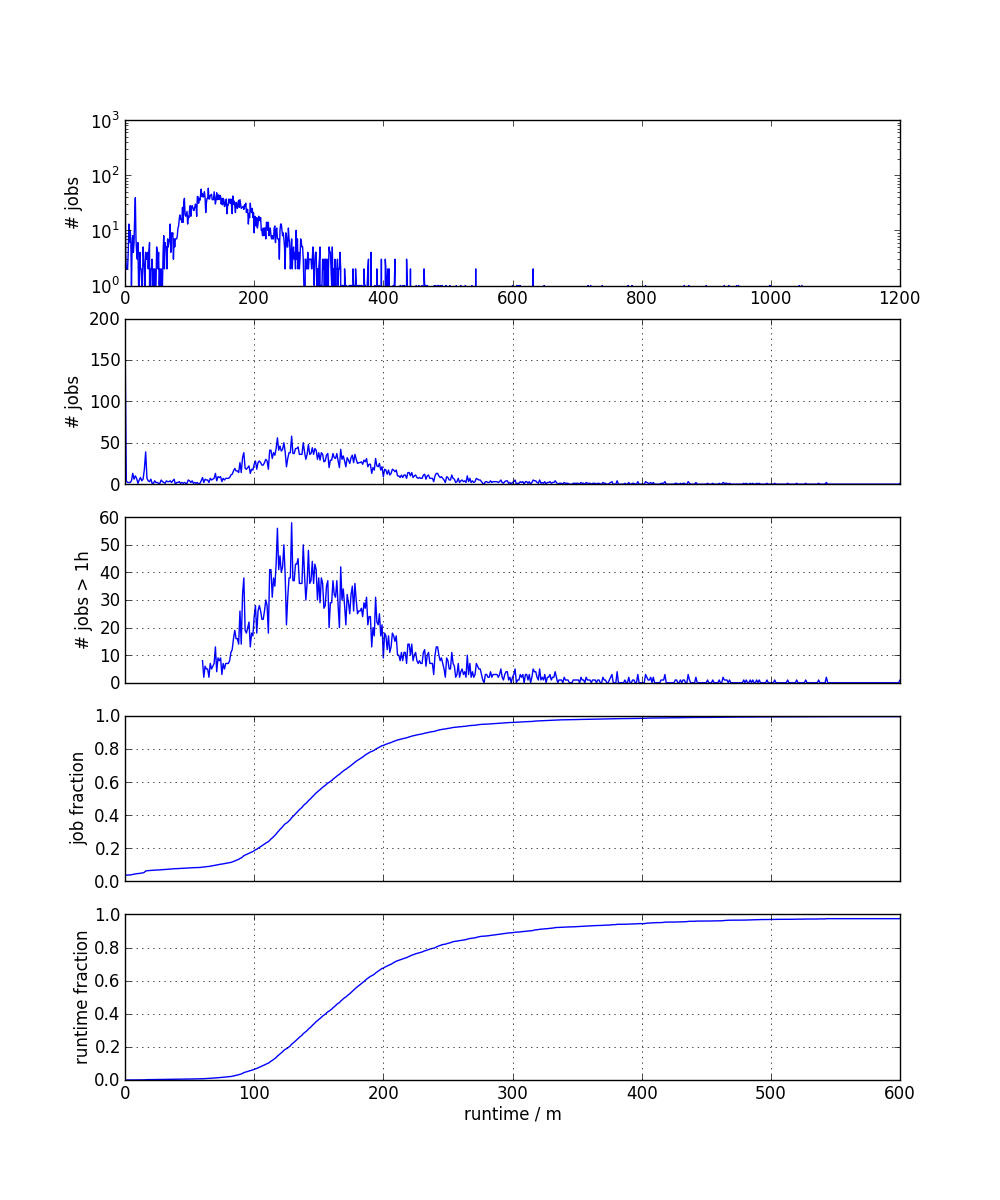
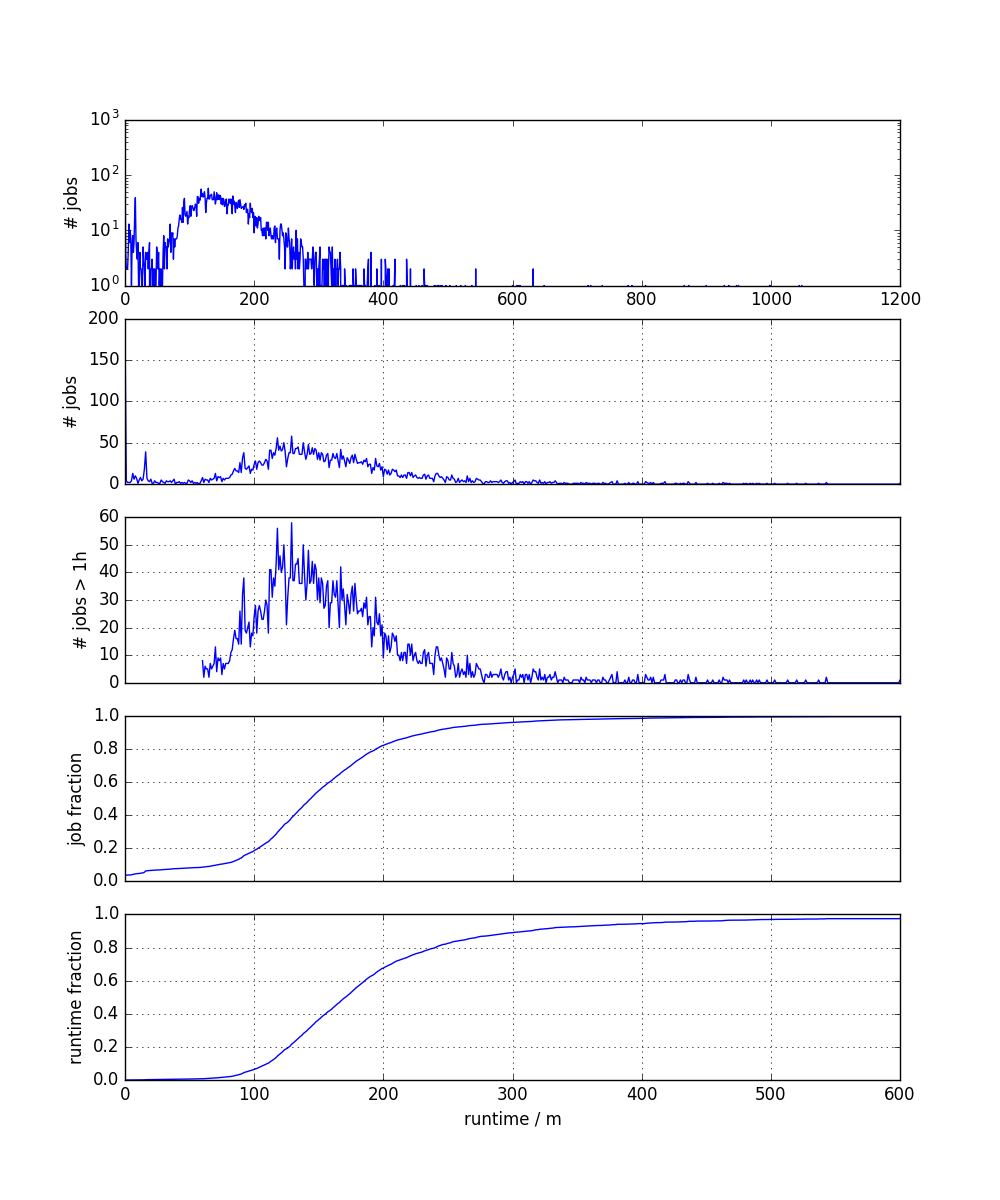
Spin off some plots from the all-in-one.

diff --git a/scripts/plot_runtime.py b/scripts/plot_runtime.py
@@ -55,3 +55,42 @@ ax5.set_xlim(0, 600)
 ax5.set_ylabel("runtime fraction")
 
 plt.savefig(args.output)
+
+basename, ext = args.output.rsplit('.', 1)
+
+plt.figure(figsize=(6, 5))
+
+ax6 = plt.subplot(111)
+ax6.grid(True)
+ax6.plot(edges, cummulative * 100. / grandtotal)
+ax6.set_xlim(0, 240)
+ax6.set_ylabel("jobs / %")
+ax6.set_xlabel("max job runtime / m")
+ax6.set_title("Fraction of jobs with maximum runtime")
+
+plt.savefig('{}_{}.{}'.format(basename, 'jobfraction', ext))
+
+plt.figure(figsize=(6, 5))
+
+ax7 = plt.subplot(111)
+ax7.grid(True)
+ax7.plot(edges, bins)
+ax7.set_ylabel("# jobs")
+ax7.set_yscale("log", nonposy='clip')
+ax7.set_xlabel("job runtime / m")
+ax7.set_xlim(0, 240)
+ax7.set_title("Job distribution w.r.t. runtime")
+
+plt.savefig('{}_{}.{}'.format(basename, 'jobruntime_log', ext))
+
+plt.figure(figsize=(6, 5))
+
+ax8 = plt.subplot(111)
+ax8.grid(True)
+ax8.plot(edges, bins)
+ax8.set_ylabel("# jobs")
+ax8.set_xlabel("job runtime / m")
+ax8.set_xlim(0, 240)
+ax8.set_title("Job distribution w.r.t. runtime")
+
+plt.savefig('{}_{}.{}'.format(basename, 'jobruntime', ext))
